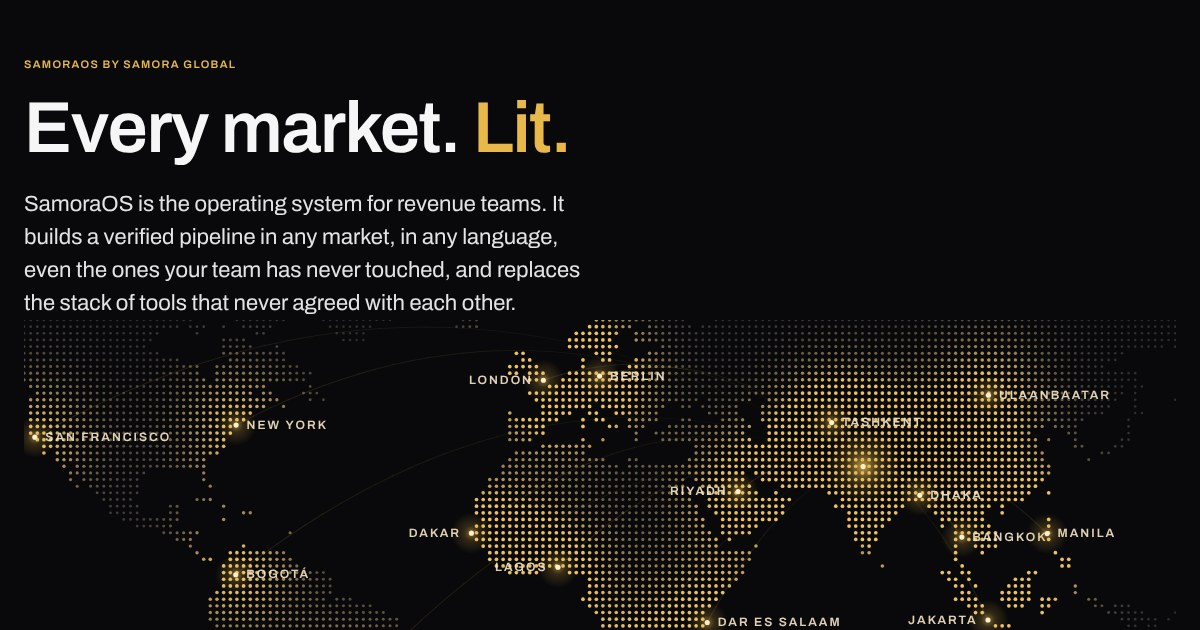
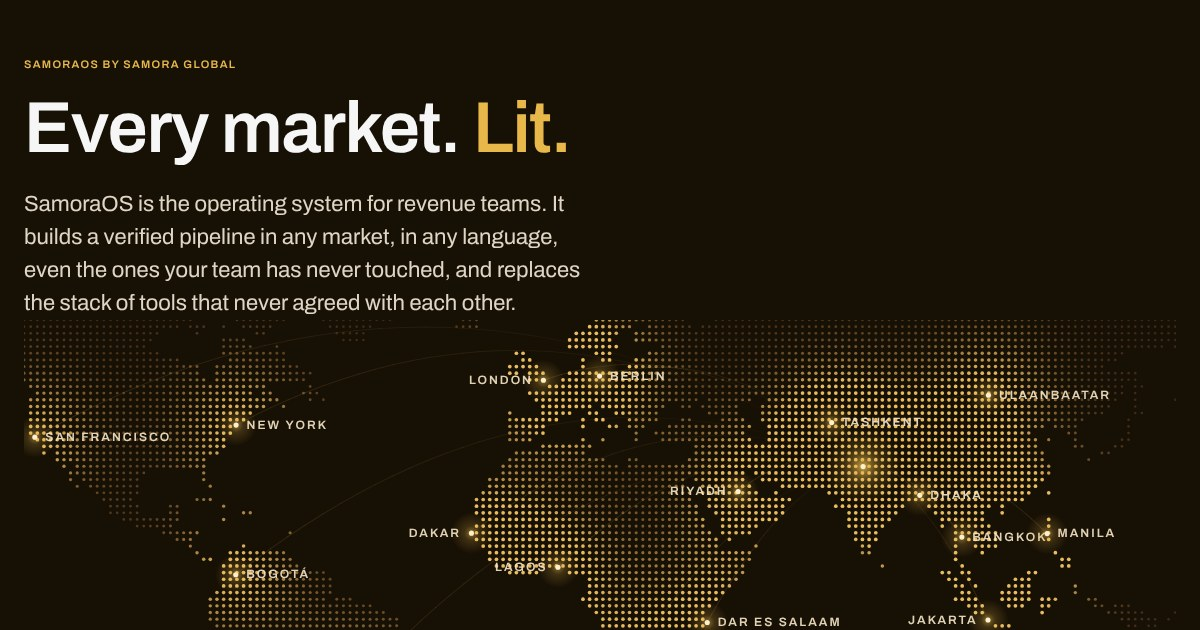
Add files via upload

Changed region(s): [[0.0308, 0.4222, 0.4933, 0.5127], [0.0308, 0.3619, 0.4625, 0.3921], [0.0308, 0.3016, 0.4317, 0.3317]]

diff --git a/samora-github-ready/index.html b/samora-github-ready/index.html
@@ -123,7 +123,7 @@
       <h2>Wired into everything your team already uses.</h2>
       <p class="lede">Mail, calendar, LinkedIn, CRM, data providers, notetakers and sequencers feed one verified layer. Five modules work from it, so every seat sees the same truth.</p>
     </div>
-    <div class="orbit rv"><svg viewBox="0 0 1100 640" role="img" aria-label="SamoraOS at the centre, its five modules around it, and integrations feeding signals in from both sides"><defs><radialGradient id="cg"><stop offset="0" stop-color="#E8B84B" stop-opacity=".35"/><stop offset="1" stop-color="#E8B84B" stop-opacity="0"/></radialGradient></defs><ellipse cx="550" cy="320" rx="240" ry="205" fill="none" stroke="#2A2A30" stroke-dasharray="3 6"/><line class="feed" x1="79" y1="40" x2="550" y2="320" stroke="#26262C" stroke-width="1"/><line class="feed" x1="161" y1="110" x2="550" y2="320" stroke="#26262C" stroke-width="1"/><line class="feed" x1="95" y1="180" x2="550" y2="320" stroke="#26262C" stroke-width="1"/><line class="feed" x1="104" y1="250" x2="550" y2="320" stroke="#26262C" stroke-width="1"/><line class="feed" x1="104" y1="320" x2="550" y2="320" stroke="#26262C" stroke-width="1"/><line class="feed" x1="120" y1="390" x2="550" y2="320" stroke="#26262C" stroke-width="1"/><line class="feed" x1="95" y1="460" x2="550" y2="320" stroke="#26262C" stroke-width="1"/><line class="feed" x1="104" y1="530" x2="550" y2="320" stroke="#26262C" stroke-width="1"/><line class="feed" x1="112" y1="600" x2="550" y2="320" stroke="#26262C" stroke-width="1"/><line class="feed" x1="996" y1="40" x2="550" y2="320" stroke="#26262C" stroke-width="1"/><line class="feed" x1="1013" y1="110" x2="550" y2="320" stroke="#26262C" stroke-width="1"/><line class="feed" x1="1021" y1="180" x2="550" y2="320" stroke="#26262C" stroke-width="1"/><line class="feed" x1="988" y1="250" x2="550" y2="320" stroke="#26262C" stroke-width="1"/><line class="feed" x1="1005" y1="320" x2="550" y2="320" stroke="#26262C" stroke-width="1"/><line class="feed" x1="1029" y1="390" x2="550" y2="320" stroke="#26262C" stroke-width="1"/><line class="feed" x1="996" y1="460" x2="550" y2="320" stroke="#26262C" stroke-width="1"/><line class="feed" x1="980" y1="530" x2="550" y2="320" stroke="#26262C" stroke-width="1"/><line class="feed" x1="964" y1="600" x2="550" y2="320" stroke="#26262C" stroke-width="1"/><g id="pulses"></g><g class="chip"><rect x="16" y="23" width="63" height="34" rx="4"/><text x="48" y="45" text-anchor="middle">Gmail</text></g><g class="chip"><rect x="16" y="93" width="145" height="34" rx="4"/><text x="88" y="115" text-anchor="middle">Google Calendar</text></g><g class="chip"><rect x="16" y="163" width="79" height="34" rx="4"/><text x="56" y="185" text-anchor="middle">Outlook</text></g><g class="chip"><rect x="16" y="233" width="88" height="34" rx="4"/><text x="60" y="255" text-anchor="middle">LinkedIn</text></g><g class="chip"><rect x="16" y="303" width="88" height="34" rx="4"/><text x="60" y="325" text-anchor="middle">WhatsApp</text></g><g class="chip"><rect x="16" y="373" width="104" height="34" rx="4"/><text x="68" y="395" text-anchor="middle">Salesforce</text></g><g class="chip"><rect x="16" y="443" width="79" height="34" rx="4"/><text x="56" y="465" text-anchor="middle">HubSpot</text></g><g class="chip"><rect x="16" y="513" width="88" height="34" rx="4"/><text x="60" y="535" text-anchor="middle">Zoho CRM</text></g><g class="chip"><rect x="16" y="583" width="96" height="34" rx="4"/><text x="64" y="605" text-anchor="middle">Pipedrive</text></g><g class="chip"><rect x="996" y="23" width="88" height="34" rx="4"/><text x="1040" y="45" text-anchor="middle">ZoomInfo</text></g><g class="chip"><rect x="1013" y="93" width="71" height="34" rx="4"/><text x="1048" y="115" text-anchor="middle">Apollo</text></g><g class="chip"><rect x="1021" y="163" width="63" height="34" rx="4"/><text x="1052" y="185" text-anchor="middle">Lusha</text></g><g class="chip"><rect x="988" y="233" width="96" height="34" rx="4"/><text x="1036" y="255" text-anchor="middle">Fireflies</text></g><g class="chip"><rect x="1005" y="303" width="79" height="34" rx="4"/><text x="1044" y="325" text-anchor="middle">Read.ai</text></g><g class="chip"><rect x="1029" y="373" width="55" height="34" rx="4"/><text x="1057" y="395" text-anchor="middle">Zoom</text></g><g class="chip"><rect x="996" y="443" width="88" height="34" rx="4"/><text x="1040" y="465" text-anchor="middle">Calendly</text></g><g class="chip"><rect x="980" y="513" width="104" height="34" rx="4"/><text x="1032" y="535" text-anchor="middle">ZeroBounce</text></g><g class="chip"><rect x="964" y="583" width="120" height="34" rx="4"/><text x="1024" y="605" text-anchor="middle">Claude (MCP)</text></g><circle cx="550" cy="320" r="150" fill="url(#cg)"/><a class="mod" href="/discovery"><rect x="450" y="85" width="200" height="60" rx="4"/><text class="t" x="466" y="111">Discovery</text><text class="d" x="466" y="131">Find the companies that fit</text></a><a class="mod" href="/sampaigns"><rect x="678" y="227" width="200" height="60" rx="4"/><text class="t" x="694" y="253">SAMpaigns</text><text class="d" x="694" y="273">Reach and write, any language</text></a><a class="mod" href="/deals"><rect x="591" y="456" width="200" height="60" rx="4"/><text class="t" x="607" y="482">Deals</text><text class="d" x="607" y="502">Moved by evidence</text></a><a class="mod" href="/leaders"><rect x="309" y="456" width="200" height="60" rx="4"/><text class="t" x="325" y="482">Leaders</text><text class="d" x="325" y="502">The verified number</text></a><a class="mod" href="/today"><rect x="222" y="227" width="200" height="60" rx="4"/><text class="t" x="238" y="253">Today</text><text class="d" x="238" y="273">The day, sorted</text></a><circle cx="550" cy="320" r="74" fill="#0D0D10" stroke="#E8B84B" stroke-width="1.5"/><image href="/brand/assets/marks/samora-badge-transparent.svg" x="518" y="274" width="64" height="64"/><text x="550" y="360" text-anchor="middle" fill="#F4F4F5" font-family="Archivo" font-weight="600" font-size="14" letter-spacing="2">SAMORAOS</text></svg></div><div class="orbit-list"><a class="card" href="/discovery" style="text-decoration:none"><div class="k">Discovery</div><h3>Find the companies that fit</h3></a><a class="card" href="/sampaigns" style="text-decoration:none"><div class="k">SAMpaigns</div><h3>Reach and write, any language</h3></a><a class="card" href="/deals" style="text-decoration:none"><div class="k">Deals</div><h3>Moved by evidence</h3></a><a class="card" href="/leaders" style="text-decoration:none"><div class="k">Leaders</div><h3>The verified number</h3></a><a class="card" href="/today" style="text-decoration:none"><div class="k">Today</div><h3>The day, sorted</h3></a></div>
+    <div class="orbit rv"><svg viewBox="0 0 1100 640" role="img" aria-label="SamoraOS at the centre, its five modules around it, and integrations feeding signals in from both sides"><defs><radialGradient id="cg"><stop offset="0" stop-color="#E8B84B" stop-opacity=".35"/><stop offset="1" stop-color="#E8B84B" stop-opacity="0"/></radialGradient></defs><ellipse cx="550" cy="320" rx="240" ry="205" fill="none" stroke="#43352A" stroke-dasharray="3 6"/><line class="feed" x1="79" y1="40" x2="550" y2="320" stroke="#3A2E1E" stroke-width="1"/><line class="feed" x1="161" y1="110" x2="550" y2="320" stroke="#3A2E1E" stroke-width="1"/><line class="feed" x1="95" y1="180" x2="550" y2="320" stroke="#3A2E1E" stroke-width="1"/><line class="feed" x1="104" y1="250" x2="550" y2="320" stroke="#3A2E1E" stroke-width="1"/><line class="feed" x1="104" y1="320" x2="550" y2="320" stroke="#3A2E1E" stroke-width="1"/><line class="feed" x1="120" y1="390" x2="550" y2="320" stroke="#3A2E1E" stroke-width="1"/><line class="feed" x1="95" y1="460" x2="550" y2="320" stroke="#3A2E1E" stroke-width="1"/><line class="feed" x1="104" y1="530" x2="550" y2="320" stroke="#3A2E1E" stroke-width="1"/><line class="feed" x1="112" y1="600" x2="550" y2="320" stroke="#3A2E1E" stroke-width="1"/><line class="feed" x1="996" y1="40" x2="550" y2="320" stroke="#3A2E1E" stroke-width="1"/><line class="feed" x1="1013" y1="110" x2="550" y2="320" stroke="#3A2E1E" stroke-width="1"/><line class="feed" x1="1021" y1="180" x2="550" y2="320" stroke="#3A2E1E" stroke-width="1"/><line class="feed" x1="988" y1="250" x2="550" y2="320" stroke="#3A2E1E" stroke-width="1"/><line class="feed" x1="1005" y1="320" x2="550" y2="320" stroke="#3A2E1E" stroke-width="1"/><line class="feed" x1="1029" y1="390" x2="550" y2="320" stroke="#3A2E1E" stroke-width="1"/><line class="feed" x1="996" y1="460" x2="550" y2="320" stroke="#3A2E1E" stroke-width="1"/><line class="feed" x1="980" y1="530" x2="550" y2="320" stroke="#3A2E1E" stroke-width="1"/><line class="feed" x1="964" y1="600" x2="550" y2="320" stroke="#3A2E1E" stroke-width="1"/><g id="pulses"></g><g class="chip"><rect x="16" y="23" width="63" height="34" rx="4"/><text x="48" y="45" text-anchor="middle">Gmail</text></g><g class="chip"><rect x="16" y="93" width="145" height="34" rx="4"/><text x="88" y="115" text-anchor="middle">Google Calendar</text></g><g class="chip"><rect x="16" y="163" width="79" height="34" rx="4"/><text x="56" y="185" text-anchor="middle">Outlook</text></g><g class="chip"><rect x="16" y="233" width="88" height="34" rx="4"/><text x="60" y="255" text-anchor="middle">LinkedIn</text></g><g class="chip"><rect x="16" y="303" width="88" height="34" rx="4"/><text x="60" y="325" text-anchor="middle">WhatsApp</text></g><g class="chip"><rect x="16" y="373" width="104" height="34" rx="4"/><text x="68" y="395" text-anchor="middle">Salesforce</text></g><g class="chip"><rect x="16" y="443" width="79" height="34" rx="4"/><text x="56" y="465" text-anchor="middle">HubSpot</text></g><g class="chip"><rect x="16" y="513" width="88" height="34" rx="4"/><text x="60" y="535" text-anchor="middle">Zoho CRM</text></g><g class="chip"><rect x="16" y="583" width="96" height="34" rx="4"/><text x="64" y="605" text-anchor="middle">Pipedrive</text></g><g class="chip"><rect x="996" y="23" width="88" height="34" rx="4"/><text x="1040" y="45" text-anchor="middle">ZoomInfo</text></g><g class="chip"><rect x="1013" y="93" width="71" height="34" rx="4"/><text x="1048" y="115" text-anchor="middle">Apollo</text></g><g class="chip"><rect x="1021" y="163" width="63" height="34" rx="4"/><text x="1052" y="185" text-anchor="middle">Lusha</text></g><g class="chip"><rect x="988" y="233" width="96" height="34" rx="4"/><text x="1036" y="255" text-anchor="middle">Fireflies</text></g><g class="chip"><rect x="1005" y="303" width="79" height="34" rx="4"/><text x="1044" y="325" text-anchor="middle">Read.ai</text></g><g class="chip"><rect x="1029" y="373" width="55" height="34" rx="4"/><text x="1057" y="395" text-anchor="middle">Zoom</text></g><g class="chip"><rect x="996" y="443" width="88" height="34" rx="4"/><text x="1040" y="465" text-anchor="middle">Calendly</text></g><g class="chip"><rect x="980" y="513" width="104" height="34" rx="4"/><text x="1032" y="535" text-anchor="middle">ZeroBounce</text></g><g class="chip"><rect x="964" y="583" width="120" height="34" rx="4"/><text x="1024" y="605" text-anchor="middle">Claude (MCP)</text></g><circle cx="550" cy="320" r="150" fill="url(#cg)"/><a class="mod" href="/discovery"><rect x="450" y="85" width="200" height="60" rx="4"/><text class="t" x="466" y="111">Discovery</text><text class="d" x="466" y="131">Find the companies that fit</text></a><a class="mod" href="/sampaigns"><rect x="678" y="227" width="200" height="60" rx="4"/><text class="t" x="694" y="253">SAMpaigns</text><text class="d" x="694" y="273">Reach and write, any language</text></a><a class="mod" href="/deals"><rect x="591" y="456" width="200" height="60" rx="4"/><text class="t" x="607" y="482">Deals</text><text class="d" x="607" y="502">Moved by evidence</text></a><a class="mod" href="/leaders"><rect x="309" y="456" width="200" height="60" rx="4"/><text class="t" x="325" y="482">Leaders</text><text class="d" x="325" y="502">The verified number</text></a><a class="mod" href="/today"><rect x="222" y="227" width="200" height="60" rx="4"/><text class="t" x="238" y="253">Today</text><text class="d" x="238" y="273">The day, sorted</text></a><circle cx="550" cy="320" r="74" fill="#1C130A" stroke="#E8B84B" stroke-width="1.5"/><image href="/brand/assets/marks/samora-badge-transparent.svg" x="518" y="274" width="64" height="64"/><text x="550" y="360" text-anchor="middle" fill="#F6F0E7" font-family="Archivo" font-weight="600" font-size="14" letter-spacing="2">SAMORAOS</text></svg></div><div class="orbit-list"><a class="card" href="/discovery" style="text-decoration:none"><div class="k">Discovery</div><h3>Find the companies that fit</h3></a><a class="card" href="/sampaigns" style="text-decoration:none"><div class="k">SAMpaigns</div><h3>Reach and write, any language</h3></a><a class="card" href="/deals" style="text-decoration:none"><div class="k">Deals</div><h3>Moved by evidence</h3></a><a class="card" href="/leaders" style="text-decoration:none"><div class="k">Leaders</div><h3>The verified number</h3></a><a class="card" href="/today" style="text-decoration:none"><div class="k">Today</div><h3>The day, sorted</h3></a></div>
     <div class="btns" style="justify-content:center"><a class="btn btn--line arrow" href="/integrations">All 31 integrations</a></div>
   </div>
 </section>
@@ -186,7 +186,7 @@
       <div class="btns"><a class="btn btn--line arrow" href="/deals">How deals are verified</a></div>
     </div>
     <div class="leak rv">
-  <div class="leak-row"><div class="top"><span>Stated in the CRM</span><b>$1.20M</b></div><div class="track"><div class="fill" style="--w:100%;background:#3A3A42;color:#E4E4E7">What the deck says</div></div></div>
+  <div class="leak-row"><div class="top"><span>Stated in the CRM</span><b>$1.20M</b></div><div class="track"><div class="fill" style="--w:100%;background:#504635;color:#F0E8DA">What the deck says</div></div></div>
   <div class="leak-row"><div class="top"><span>Partly supported</span><b>$670K</b></div><div class="track"><div class="fill" style="--w:56%;background:#DEB771">Some signal, below the bar</div></div></div>
   <div class="leak-row"><div class="top"><span>Verified by activity</span><b>$530K</b></div><div class="track"><div class="fill" style="--w:44%;background:#A8B07A">Safe to commit</div></div></div>
   <div class="leak-gap"><div class="n">$670K</div><p>carried in the forecast with no evidence behind it. An illustrative pipeline, and the gap that becomes a missed quarter.</p></div>

diff --git a/samora-github-ready/integrations.html b/samora-github-ready/integrations.html
@@ -74,7 +74,7 @@
 <section class="sec dark warm">
   <div class="wrap">
     <div class="sec-h center rv"><div class="eyebrow">How it fits together</div><h2>Signals in. Five modules out.</h2></div>
-    <div class="orbit rv"><svg viewBox="0 0 1100 640" role="img" aria-label="SamoraOS at the centre, its five modules around it, and integrations feeding signals in from both sides"><defs><radialGradient id="cg"><stop offset="0" stop-color="#E8B84B" stop-opacity=".35"/><stop offset="1" stop-color="#E8B84B" stop-opacity="0"/></radialGradient></defs><ellipse cx="550" cy="320" rx="240" ry="205" fill="none" stroke="#2A2A30" stroke-dasharray="3 6"/><line class="feed" x1="79" y1="40" x2="550" y2="320" stroke="#26262C" stroke-width="1"/><line class="feed" x1="161" y1="110" x2="550" y2="320" stroke="#26262C" stroke-width="1"/><line class="feed" x1="95" y1="180" x2="550" y2="320" stroke="#26262C" stroke-width="1"/><line class="feed" x1="104" y1="250" x2="550" y2="320" stroke="#26262C" stroke-width="1"/><line class="feed" x1="104" y1="320" x2="550" y2="320" stroke="#26262C" stroke-width="1"/><line class="feed" x1="120" y1="390" x2="550" y2="320" stroke="#26262C" stroke-width="1"/><line class="feed" x1="95" y1="460" x2="550" y2="320" stroke="#26262C" stroke-width="1"/><line class="feed" x1="104" y1="530" x2="550" y2="320" stroke="#26262C" stroke-width="1"/><line class="feed" x1="112" y1="600" x2="550" y2="320" stroke="#26262C" stroke-width="1"/><line class="feed" x1="996" y1="40" x2="550" y2="320" stroke="#26262C" stroke-width="1"/><line class="feed" x1="1013" y1="110" x2="550" y2="320" stroke="#26262C" stroke-width="1"/><line class="feed" x1="1021" y1="180" x2="550" y2="320" stroke="#26262C" stroke-width="1"/><line class="feed" x1="988" y1="250" x2="550" y2="320" stroke="#26262C" stroke-width="1"/><line class="feed" x1="1005" y1="320" x2="550" y2="320" stroke="#26262C" stroke-width="1"/><line class="feed" x1="1029" y1="390" x2="550" y2="320" stroke="#26262C" stroke-width="1"/><line class="feed" x1="996" y1="460" x2="550" y2="320" stroke="#26262C" stroke-width="1"/><line class="feed" x1="980" y1="530" x2="550" y2="320" stroke="#26262C" stroke-width="1"/><line class="feed" x1="964" y1="600" x2="550" y2="320" stroke="#26262C" stroke-width="1"/><g id="pulses"></g><g class="chip"><rect x="16" y="23" width="63" height="34" rx="4"/><text x="48" y="45" text-anchor="middle">Gmail</text></g><g class="chip"><rect x="16" y="93" width="145" height="34" rx="4"/><text x="88" y="115" text-anchor="middle">Google Calendar</text></g><g class="chip"><rect x="16" y="163" width="79" height="34" rx="4"/><text x="56" y="185" text-anchor="middle">Outlook</text></g><g class="chip"><rect x="16" y="233" width="88" height="34" rx="4"/><text x="60" y="255" text-anchor="middle">LinkedIn</text></g><g class="chip"><rect x="16" y="303" width="88" height="34" rx="4"/><text x="60" y="325" text-anchor="middle">WhatsApp</text></g><g class="chip"><rect x="16" y="373" width="104" height="34" rx="4"/><text x="68" y="395" text-anchor="middle">Salesforce</text></g><g class="chip"><rect x="16" y="443" width="79" height="34" rx="4"/><text x="56" y="465" text-anchor="middle">HubSpot</text></g><g class="chip"><rect x="16" y="513" width="88" height="34" rx="4"/><text x="60" y="535" text-anchor="middle">Zoho CRM</text></g><g class="chip"><rect x="16" y="583" width="96" height="34" rx="4"/><text x="64" y="605" text-anchor="middle">Pipedrive</text></g><g class="chip"><rect x="996" y="23" width="88" height="34" rx="4"/><text x="1040" y="45" text-anchor="middle">ZoomInfo</text></g><g class="chip"><rect x="1013" y="93" width="71" height="34" rx="4"/><text x="1048" y="115" text-anchor="middle">Apollo</text></g><g class="chip"><rect x="1021" y="163" width="63" height="34" rx="4"/><text x="1052" y="185" text-anchor="middle">Lusha</text></g><g class="chip"><rect x="988" y="233" width="96" height="34" rx="4"/><text x="1036" y="255" text-anchor="middle">Fireflies</text></g><g class="chip"><rect x="1005" y="303" width="79" height="34" rx="4"/><text x="1044" y="325" text-anchor="middle">Read.ai</text></g><g class="chip"><rect x="1029" y="373" width="55" height="34" rx="4"/><text x="1057" y="395" text-anchor="middle">Zoom</text></g><g class="chip"><rect x="996" y="443" width="88" height="34" rx="4"/><text x="1040" y="465" text-anchor="middle">Calendly</text></g><g class="chip"><rect x="980" y="513" width="104" height="34" rx="4"/><text x="1032" y="535" text-anchor="middle">ZeroBounce</text></g><g class="chip"><rect x="964" y="583" width="120" height="34" rx="4"/><text x="1024" y="605" text-anchor="middle">Claude (MCP)</text></g><circle cx="550" cy="320" r="150" fill="url(#cg)"/><a class="mod" href="/discovery"><rect x="450" y="85" width="200" height="60" rx="4"/><text class="t" x="466" y="111">Discovery</text><text class="d" x="466" y="131">Find the companies that fit</text></a><a class="mod" href="/sampaigns"><rect x="678" y="227" width="200" height="60" rx="4"/><text class="t" x="694" y="253">SAMpaigns</text><text class="d" x="694" y="273">Reach and write, any language</text></a><a class="mod" href="/deals"><rect x="591" y="456" width="200" height="60" rx="4"/><text class="t" x="607" y="482">Deals</text><text class="d" x="607" y="502">Moved by evidence</text></a><a class="mod" href="/leaders"><rect x="309" y="456" width="200" height="60" rx="4"/><text class="t" x="325" y="482">Leaders</text><text class="d" x="325" y="502">The verified number</text></a><a class="mod" href="/today"><rect x="222" y="227" width="200" height="60" rx="4"/><text class="t" x="238" y="253">Today</text><text class="d" x="238" y="273">The day, sorted</text></a><circle cx="550" cy="320" r="74" fill="#0D0D10" stroke="#E8B84B" stroke-width="1.5"/><image href="/brand/assets/marks/samora-badge-transparent.svg" x="518" y="274" width="64" height="64"/><text x="550" y="360" text-anchor="middle" fill="#F4F4F5" font-family="Archivo" font-weight="600" font-size="14" letter-spacing="2">SAMORAOS</text></svg></div><div class="orbit-list"><a class="card" href="/discovery" style="text-decoration:none"><div class="k">Discovery</div><h3>Find the companies that fit</h3></a><a class="card" href="/sampaigns" style="text-decoration:none"><div class="k">SAMpaigns</div><h3>Reach and write, any language</h3></a><a class="card" href="/deals" style="text-decoration:none"><div class="k">Deals</div><h3>Moved by evidence</h3></a><a class="card" href="/leaders" style="text-decoration:none"><div class="k">Leaders</div><h3>The verified number</h3></a><a class="card" href="/today" style="text-decoration:none"><div class="k">Today</div><h3>The day, sorted</h3></a></div>
+    <div class="orbit rv"><svg viewBox="0 0 1100 640" role="img" aria-label="SamoraOS at the centre, its five modules around it, and integrations feeding signals in from both sides"><defs><radialGradient id="cg"><stop offset="0" stop-color="#E8B84B" stop-opacity=".35"/><stop offset="1" stop-color="#E8B84B" stop-opacity="0"/></radialGradient></defs><ellipse cx="550" cy="320" rx="240" ry="205" fill="none" stroke="#43352A" stroke-dasharray="3 6"/><line class="feed" x1="79" y1="40" x2="550" y2="320" stroke="#3A2E1E" stroke-width="1"/><line class="feed" x1="161" y1="110" x2="550" y2="320" stroke="#3A2E1E" stroke-width="1"/><line class="feed" x1="95" y1="180" x2="550" y2="320" stroke="#3A2E1E" stroke-width="1"/><line class="feed" x1="104" y1="250" x2="550" y2="320" stroke="#3A2E1E" stroke-width="1"/><line class="feed" x1="104" y1="320" x2="550" y2="320" stroke="#3A2E1E" stroke-width="1"/><line class="feed" x1="120" y1="390" x2="550" y2="320" stroke="#3A2E1E" stroke-width="1"/><line class="feed" x1="95" y1="460" x2="550" y2="320" stroke="#3A2E1E" stroke-width="1"/><line class="feed" x1="104" y1="530" x2="550" y2="320" stroke="#3A2E1E" stroke-width="1"/><line class="feed" x1="112" y1="600" x2="550" y2="320" stroke="#3A2E1E" stroke-width="1"/><line class="feed" x1="996" y1="40" x2="550" y2="320" stroke="#3A2E1E" stroke-width="1"/><line class="feed" x1="1013" y1="110" x2="550" y2="320" stroke="#3A2E1E" stroke-width="1"/><line class="feed" x1="1021" y1="180" x2="550" y2="320" stroke="#3A2E1E" stroke-width="1"/><line class="feed" x1="988" y1="250" x2="550" y2="320" stroke="#3A2E1E" stroke-width="1"/><line class="feed" x1="1005" y1="320" x2="550" y2="320" stroke="#3A2E1E" stroke-width="1"/><line class="feed" x1="1029" y1="390" x2="550" y2="320" stroke="#3A2E1E" stroke-width="1"/><line class="feed" x1="996" y1="460" x2="550" y2="320" stroke="#3A2E1E" stroke-width="1"/><line class="feed" x1="980" y1="530" x2="550" y2="320" stroke="#3A2E1E" stroke-width="1"/><line class="feed" x1="964" y1="600" x2="550" y2="320" stroke="#3A2E1E" stroke-width="1"/><g id="pulses"></g><g class="chip"><rect x="16" y="23" width="63" height="34" rx="4"/><text x="48" y="45" text-anchor="middle">Gmail</text></g><g class="chip"><rect x="16" y="93" width="145" height="34" rx="4"/><text x="88" y="115" text-anchor="middle">Google Calendar</text></g><g class="chip"><rect x="16" y="163" width="79" height="34" rx="4"/><text x="56" y="185" text-anchor="middle">Outlook</text></g><g class="chip"><rect x="16" y="233" width="88" height="34" rx="4"/><text x="60" y="255" text-anchor="middle">LinkedIn</text></g><g class="chip"><rect x="16" y="303" width="88" height="34" rx="4"/><text x="60" y="325" text-anchor="middle">WhatsApp</text></g><g class="chip"><rect x="16" y="373" width="104" height="34" rx="4"/><text x="68" y="395" text-anchor="middle">Salesforce</text></g><g class="chip"><rect x="16" y="443" width="79" height="34" rx="4"/><text x="56" y="465" text-anchor="middle">HubSpot</text></g><g class="chip"><rect x="16" y="513" width="88" height="34" rx="4"/><text x="60" y="535" text-anchor="middle">Zoho CRM</text></g><g class="chip"><rect x="16" y="583" width="96" height="34" rx="4"/><text x="64" y="605" text-anchor="middle">Pipedrive</text></g><g class="chip"><rect x="996" y="23" width="88" height="34" rx="4"/><text x="1040" y="45" text-anchor="middle">ZoomInfo</text></g><g class="chip"><rect x="1013" y="93" width="71" height="34" rx="4"/><text x="1048" y="115" text-anchor="middle">Apollo</text></g><g class="chip"><rect x="1021" y="163" width="63" height="34" rx="4"/><text x="1052" y="185" text-anchor="middle">Lusha</text></g><g class="chip"><rect x="988" y="233" width="96" height="34" rx="4"/><text x="1036" y="255" text-anchor="middle">Fireflies</text></g><g class="chip"><rect x="1005" y="303" width="79" height="34" rx="4"/><text x="1044" y="325" text-anchor="middle">Read.ai</text></g><g class="chip"><rect x="1029" y="373" width="55" height="34" rx="4"/><text x="1057" y="395" text-anchor="middle">Zoom</text></g><g class="chip"><rect x="996" y="443" width="88" height="34" rx="4"/><text x="1040" y="465" text-anchor="middle">Calendly</text></g><g class="chip"><rect x="980" y="513" width="104" height="34" rx="4"/><text x="1032" y="535" text-anchor="middle">ZeroBounce</text></g><g class="chip"><rect x="964" y="583" width="120" height="34" rx="4"/><text x="1024" y="605" text-anchor="middle">Claude (MCP)</text></g><circle cx="550" cy="320" r="150" fill="url(#cg)"/><a class="mod" href="/discovery"><rect x="450" y="85" width="200" height="60" rx="4"/><text class="t" x="466" y="111">Discovery</text><text class="d" x="466" y="131">Find the companies that fit</text></a><a class="mod" href="/sampaigns"><rect x="678" y="227" width="200" height="60" rx="4"/><text class="t" x="694" y="253">SAMpaigns</text><text class="d" x="694" y="273">Reach and write, any language</text></a><a class="mod" href="/deals"><rect x="591" y="456" width="200" height="60" rx="4"/><text class="t" x="607" y="482">Deals</text><text class="d" x="607" y="502">Moved by evidence</text></a><a class="mod" href="/leaders"><rect x="309" y="456" width="200" height="60" rx="4"/><text class="t" x="325" y="482">Leaders</text><text class="d" x="325" y="502">The verified number</text></a><a class="mod" href="/today"><rect x="222" y="227" width="200" height="60" rx="4"/><text class="t" x="238" y="253">Today</text><text class="d" x="238" y="273">The day, sorted</text></a><circle cx="550" cy="320" r="74" fill="#1C130A" stroke="#E8B84B" stroke-width="1.5"/><image href="/brand/assets/marks/samora-badge-transparent.svg" x="518" y="274" width="64" height="64"/><text x="550" y="360" text-anchor="middle" fill="#F6F0E7" font-family="Archivo" font-weight="600" font-size="14" letter-spacing="2">SAMORAOS</text></svg></div><div class="orbit-list"><a class="card" href="/discovery" style="text-decoration:none"><div class="k">Discovery</div><h3>Find the companies that fit</h3></a><a class="card" href="/sampaigns" style="text-decoration:none"><div class="k">SAMpaigns</div><h3>Reach and write, any language</h3></a><a class="card" href="/deals" style="text-decoration:none"><div class="k">Deals</div><h3>Moved by evidence</h3></a><a class="card" href="/leaders" style="text-decoration:none"><div class="k">Leaders</div><h3>The verified number</h3></a><a class="card" href="/today" style="text-decoration:none"><div class="k">Today</div><h3>The day, sorted</h3></a></div>
   </div>
 </section>
 <section class="sec sec--surface">

diff --git a/samora-github-ready/css/site.css b/samora-github-ready/css/site.css
@@ -12,8 +12,8 @@
   --font:'Archivo',ui-sans-serif,system-ui,sans-serif;
   /* Neutral ramp: cool, near-black to white. The gold is the only colour with a temperature. */
   --sand-00:#FFFFFF;--sand-05:#F6F6F7;--sand-10:#EFEFF1;--sand-20:#E4E4E7;--sand-30:#D4D4D8;--sand-40:#A1A1AA;
-  --sand-50:#8B8B94;--sand-60:#62626B;--sand-70:#45454D;--sand-80:#26262B;--sand-90:#141417;--sand-95:#09090B;
-  --gold:#C8961E;--gold-bright:#E8B84B;--gold-text:#8A6508;--gold-solid:#0B0B0D;--ink:#09090B;
+  --sand-50:#8B8B94;--sand-60:#62626B;--sand-70:#45454D;--sand-80:#382F1F;--sand-90:#261E10;--sand-95:#171005;
+  --gold:#B8860B;--gold-bright:#E8B84B;--gold-text:#886100;--gold-solid:#926B14;--ink:#2B1B14;
   --verified:#4E7A3A;--partial:#8A6508;--risk:#B4472A;--info:#3E6E8A;
   --r-sm:2px;--r-md:4px;
   --dur-fast:120ms;--dur-slow:200ms;--ease:cubic-bezier(0.2,0,0,1);
@@ -23,7 +23,7 @@
 html{-webkit-text-size-adjust:100%;scroll-behavior:smooth}
 body{margin:0;background:var(--sand-00);color:var(--sand-95);font-family:var(--font);font-size:16px;line-height:1.55;
   font-variant-numeric:tabular-nums;-webkit-font-smoothing:antialiased;overflow-x:hidden}
-img,svg,canvas{max-width:100%;display:block}
+img,svg,canvas{max-width:100%;height:auto;display:block}
 a{color:inherit}
 h1,h2,h3,h4{margin:0;font-weight:600;line-height:1.15;letter-spacing:-0.01em}
 h1{font-size:clamp(40px,6.2vw,72px);letter-spacing:-0.02em}
@@ -54,14 +54,14 @@ p{margin:0}
 .dark .lede,.dark .muted{color:var(--sand-30)}
 .dark .eyebrow{color:var(--gold-bright)}
 .dark .gold{color:var(--gold-bright)}
-.warm{background:radial-gradient(90% 70% at 50% 100%,rgba(200,150,30,.16) 0%,rgba(200,150,30,.05) 45%,rgba(9,9,11,0) 75%),radial-gradient(60% 50% at 85% 0%,rgba(232,184,75,.07),rgba(9,9,11,0) 70%),var(--sand-95)}
+.warm{background:radial-gradient(120% 90% at 50% 100%,rgba(140,62,20,.55) 0%,rgba(80,28,10,.35) 40%,rgba(23,16,5,0) 75%),var(--sand-95)}
 
 /* buttons */
 .btn{display:inline-flex;align-items:center;justify-content:center;gap:8px;height:44px;padding:0 20px;border-radius:var(--r-sm);
   font:500 15px/1 var(--font);text-decoration:none;cursor:pointer;border:1px solid transparent;
   transition:background-color var(--dur-fast) var(--ease),border-color var(--dur-fast) var(--ease),color var(--dur-fast) var(--ease)}
 .btn--gold{background:var(--gold-solid);color:var(--sand-00)}
-.btn--gold:hover{background:#26262B}
+.btn--gold:hover{background:#7E5C10}
 .btn--line{border-color:var(--sand-40);color:var(--sand-95);background:transparent}
 .btn--line:hover{border-color:var(--sand-95)}
 .dark .btn--gold{background:var(--gold-bright);color:var(--sand-95)}
@@ -131,7 +131,7 @@ p{margin:0}
 .card h3{margin-bottom:8px}
 .card p{color:var(--sand-70);font-size:15px}
 .card .k{font-size:12px;font-weight:600;color:var(--gold-text);margin-bottom:12px}
-.dark .card{background:#111114;border-color:var(--sand-80)}
+.dark .card{background:#211710;border-color:#3A2E1E}
 .dark .card p{color:var(--sand-30)}
 .dark .card .k{color:var(--gold-bright)}
 
@@ -282,17 +282,17 @@ p{margin:0}
 
 /* ===== v2 additions: integrations, research, consolidation, orbit, funnel ===== */
 .dark{background:var(--sand-95)}
-.sec.dark{border-top:1px solid #18181C}
+.sec.dark{border-top:1px solid #2A2014}
 .btn--gold{color:#FFFFFF}
-.dark .btn--gold{color:#09090B}
+.dark .btn--gold{color:#171005}
 h1 .gold,.hero h1 .gold{color:var(--gold-bright)}
 
 /* marquee of integrations */
-.strip{background:#0D0D10;border-top:1px solid #1C1C21;border-bottom:1px solid #1C1C21;padding:22px 0;overflow:hidden}
+.strip{background:#1C130A;border-top:1px solid #2E2418;border-bottom:1px solid #2E2418;padding:22px 0;overflow:hidden}
 .strip-lbl{text-align:center;font-size:11px;font-weight:600;letter-spacing:.14em;text-transform:uppercase;color:var(--sand-50);margin-bottom:14px}
 .strip-lbl a{color:var(--gold-bright);text-decoration:none;margin-left:8px}
 .strip-track{display:flex;gap:44px;width:max-content;animation:slide 60s linear infinite;will-change:transform}
-.strip-track span{font-size:16px;font-weight:500;color:#C9C9CF;white-space:nowrap;display:flex;align-items:center;gap:44px}
+.strip-track span{font-size:16px;font-weight:500;color:#D9CDB8;white-space:nowrap;display:flex;align-items:center;gap:44px}
 .strip-track span::after{content:'';width:4px;height:4px;border-radius:999px;background:var(--gold)}
 @keyframes slide{from{transform:translateX(0)}to{transform:translateX(-50%)}}
 @media(prefers-reduced-motion:reduce){.strip-track{animation:none;flex-wrap:wrap;justify-content:center;width:auto;gap:12px 28px;padding:0 16px}.strip-track span::after{display:none}}
@@ -319,13 +319,13 @@ h1 .gold,.hero h1 .gold{color:var(--gold-bright)}
 .stk-head{display:flex;justify-content:space-between;font-size:11px;font-weight:600;letter-spacing:.12em;text-transform:uppercase;color:var(--sand-60);margin-bottom:12px}
 .stk-mid{display:flex;flex-direction:column;align-items:center;gap:8px;font-size:11px;font-weight:600;letter-spacing:.12em;color:var(--gold-text)}
 .stk-mid svg{width:48px;height:48px}
-.stk-one{background:var(--sand-95);color:#F4F4F5;border-radius:var(--r-md);padding:32px;position:relative;overflow:hidden}
+.stk-one{background:var(--sand-95);color:#F6F0E7;border-radius:var(--r-md);padding:32px;position:relative;overflow:hidden}
 .stk-one::before{content:'';position:absolute;inset:auto -30% -60% -30%;height:120%;background:radial-gradient(closest-side,rgba(232,184,75,.18),rgba(232,184,75,0));pointer-events:none}
 .stk-one img{width:56px;height:56px}
 .stk-one h3{font-size:26px;margin:18px 0 8px}
-.stk-one p{color:#A1A1AA}
+.stk-one p{color:#C8BCA9}
 .stk-one ul{list-style:none;padding:0;margin:20px 0 0;display:grid;gap:10px}
-.stk-one li{padding-left:22px;position:relative;color:#E4E4E7}
+.stk-one li{padding-left:22px;position:relative;color:#F0E8DA}
 .stk-one li::before{content:'';position:absolute;left:2px;top:7px;width:9px;height:5px;border-left:1.5px solid var(--gold-bright);border-bottom:1.5px solid var(--gold-bright);transform:rotate(-45deg)}
 @media(max-width:1000px){.stk{grid-template-columns:1fr}.stk-mid{flex-direction:row}.stk-mid svg{transform:rotate(90deg)}}
 @media(max-width:560px){.stk-grid{grid-template-columns:1fr 1fr}.tool--crm{grid-column:span 2}}
@@ -333,12 +333,12 @@ h1 .gold,.hero h1 .gold{color:var(--gold-bright)}
 /* orbit */
 .orbit{position:relative;width:100%;max-width:1100px;margin:0 auto}
 .orbit svg{width:100%;height:auto;overflow:visible}
-.orbit .chip rect{fill:#121216;stroke:#2A2A30}
-.orbit .chip text{fill:#B4B4BC;font:500 13px var(--font)}
-.orbit .mod rect{fill:#16161A;stroke:#3A3A42}
+.orbit .chip rect{fill:#211710;stroke:#43352A}
+.orbit .chip text{fill:#D0C4AE;font:500 13px var(--font)}
+.orbit .mod rect{fill:#2A2014;stroke:#504635}
 .orbit .mod:hover rect,.orbit .mod:focus rect{stroke:var(--gold-bright)}
-.orbit .mod text.t{fill:#F4F4F5;font:600 16px var(--font)}
-.orbit .mod text.d{fill:#8B8B94;font:400 12px var(--font)}
+.orbit .mod text.t{fill:#F6F0E7;font:600 16px var(--font)}
+.orbit .mod text.d{fill:#A99D88;font:400 12px var(--font)}
 .orbit-list{display:none}
 @media(max-width:760px){.orbit{display:none}.orbit-list{display:grid;gap:10px}}
 .orbit-list .card h3{font-size:17px}
@@ -353,8 +353,8 @@ h1 .gold,.hero h1 .gold{color:var(--gold-bright)}
 @media(max-width:760px){.int-group{grid-template-columns:1fr;gap:14px}}
 
 /* funnel */
-.fnl{position:relative;max-width:420px;margin:0 auto;background:#0D0D10;border:1px solid #222228;border-radius:var(--r-md);padding:20px 16px 24px;color:#F4F4F5;overflow:hidden}
-.fnl-top{display:flex;justify-content:space-between;font-size:11px;font-weight:600;letter-spacing:.12em;text-transform:uppercase;color:#8B8B94}
+.fnl{position:relative;max-width:420px;margin:0 auto;background:#1C130A;border:1px solid #3A2E1E;border-radius:var(--r-md);padding:20px 16px 24px;color:#F6F0E7;overflow:hidden}
+.fnl-top{display:flex;justify-content:space-between;font-size:11px;font-weight:600;letter-spacing:.12em;text-transform:uppercase;color:#A99D88}
 .fnl-top b{color:var(--gold-bright);font-weight:600}
 .fnl-stage{position:relative}
 .fnl svg{width:100%;height:auto;display:block;margin-top:8px}
@@ -362,19 +362,19 @@ h1 .gold,.hero h1 .gold{color:var(--gold-bright)}
 .fnl-dot--out{background:#6B6B73;box-shadow:none}
 .fnl-out{text-align:center;margin-top:4px}
 .fnl-out .n{font-size:44px;font-weight:600;letter-spacing:-0.02em;color:var(--gold-bright);line-height:1}
-.fnl-out .l{font-size:11px;font-weight:600;letter-spacing:.12em;text-transform:uppercase;color:#A1A1AA;margin-top:8px}
-.fnl-out .s{font-size:12.5px;color:#71717A;margin-top:6px}
+.fnl-out .l{font-size:11px;font-weight:600;letter-spacing:.12em;text-transform:uppercase;color:#C8BCA9;margin-top:8px}
+.fnl-out .s{font-size:12.5px;color:#8A7F6B;margin-top:6px}
 
 /* leak bars */
 .leak{display:grid;gap:18px}
-.leak-row .top{display:flex;justify-content:space-between;font-size:12px;font-weight:600;letter-spacing:.1em;text-transform:uppercase;color:#A1A1AA;margin-bottom:8px}
-.leak-row .top b{color:#F4F4F5;font-size:15px;letter-spacing:0}
-.leak-row .track{height:38px;background:#141418;border:1px solid #232329;border-radius:var(--r-sm);overflow:hidden}
-.leak-row .fill{height:100%;display:flex;align-items:center;padding:0 12px;font-size:11px;font-weight:600;letter-spacing:.1em;text-transform:uppercase;color:#09090B;width:0;transition:width 1.2s var(--ease)}
+.leak-row .top{display:flex;justify-content:space-between;font-size:12px;font-weight:600;letter-spacing:.1em;text-transform:uppercase;color:#C8BCA9;margin-bottom:8px}
+.leak-row .top b{color:#F6F0E7;font-size:15px;letter-spacing:0}
+.leak-row .track{height:38px;background:#261E10;border:1px solid #3A2E1E;border-radius:var(--r-sm);overflow:hidden}
+.leak-row .fill{height:100%;display:flex;align-items:center;padding:0 12px;font-size:11px;font-weight:600;letter-spacing:.1em;text-transform:uppercase;color:#171005;width:0;transition:width 1.2s var(--ease)}
 .leak.in .fill{width:var(--w)}
-.leak-gap{display:flex;gap:16px;align-items:baseline;border-top:1px solid #232329;padding-top:18px}
+.leak-gap{display:flex;gap:16px;align-items:baseline;border-top:1px solid #3A2E1E;padding-top:18px}
 .leak-gap .n{font-size:36px;font-weight:600;color:#E0906F;letter-spacing:-0.02em}
-.leak-gap p{color:#A1A1AA;font-size:14px}
+.leak-gap p{color:#C8BCA9;font-size:14px}
 @media(prefers-reduced-motion:reduce){.leak .fill{width:var(--w);transition:none}}
 
 /* roles */
@@ -390,12 +390,12 @@ h1 .gold,.hero h1 .gold{color:var(--gold-bright)}
 
 /* quotes */
 .quotes{display:grid;grid-template-columns:repeat(3,1fr);gap:24px}
-.qcard{border:1px solid #26262B;border-radius:var(--r-md);padding:28px;background:#0F0F12}
+.qcard{border:1px solid #3A2E1E;border-radius:var(--r-md);padding:28px;background:#1E150C}
 .qcard .who{font-size:11px;font-weight:600;letter-spacing:.14em;text-transform:uppercase;color:var(--gold-bright)}
-.qcard blockquote{margin:14px 0 0;font-size:19px;line-height:1.4;font-weight:500;color:#F4F4F5}
-.qcard .read{margin-top:16px;color:#A1A1AA;font-size:14px}
-.qcard .src{margin-top:16px;font-size:12px;color:#71717A}
-.qcard .src a{color:#A1A1AA}
+.qcard blockquote{margin:14px 0 0;font-size:19px;line-height:1.4;font-weight:500;color:#F6F0E7}
+.qcard .read{margin-top:16px;color:#C8BCA9;font-size:14px}
+.qcard .src{margin-top:16px;font-size:12px;color:#8A7F6B}
+.qcard .src a{color:#C8BCA9}
 @media(max-width:900px){.quotes{grid-template-columns:1fr}}
 
 /* about */
@@ -422,3 +422,15 @@ h1 .gold,.hero h1 .gold{color:var(--gold-bright)}
 @media(prefers-reduced-motion:reduce){.strip-track span[aria-hidden]{display:none}}
 .about-hero .copy{align-self:center;padding:40px 0 56px}
 .about-hero img{align-self:end;max-width:420px}
+
+/* v3: warm darks, white lights */
+.dark .lede,.dark .muted{color:#C8BCA9}
+.dark .crumb a{color:#A99D88}
+.foot{color:#C8BCA9}.foot-cols a{color:#E0D6C5}.foot-cols a:hover{color:#FDFAF4}.foot-g{color:#A99D88;border-color:#382F1F}.foot-g a{color:#E0D6C5}.foot-b{color:#8A7F6B}.foot-b a{color:#A99D88}
+.hero .lede{color:#E0D6C5}.hero-note{color:#A99D88}
+.stat .l{color:#C8BCA9}.stats,.stat+.stat{border-color:#382F1F!important}
+.tool--crm{border-color:#E9C8BD;background:#FFF7F4}
+/* funnel geometry: the dot layer is exactly the drawing's box */
+.fnl-stage{position:relative;margin-top:10px;aspect-ratio:340/330;overflow:hidden}
+.fnl-stage svg{position:absolute;inset:0;width:100%;height:100%;margin:0}
+.fnl-top{gap:12px;flex-wrap:wrap}

diff --git a/samora-github-ready/js/site.js b/samora-github-ready/js/site.js
@@ -76,7 +76,7 @@
         var dx0 = x - hp[0], dy0 = y - hp[1]; b += hi * Math.exp(-(dx0 * dx0 + dy0 * dy0) / sig);
         for (var j = 0; j < lights.length; j++) { var L = lights[j]; if (L.i <= 0) continue; var dx = x - L.p[0], dy = y - L.p[1]; b += L.i * Math.exp(-(dx * dx + dy * dy) / sig); }
         b = Math.min(1, b);
-        ctx.fillStyle = 'rgba(' + Math.round(78 + 164 * b) + ',' + Math.round(78 + 118 * b) + ',' + Math.round(88 + 12 * b) + ',' + (0.5 + 0.48 * b) + ')';
+        ctx.fillStyle = 'rgba(' + Math.round(130 + 112 * b) + ',' + Math.round(84 + 112 * b) + ',' + Math.round(48 + 52 * b) + ',' + (0.36 + 0.6 * b) + ')';
         ctx.beginPath(); ctx.arc(x, y, dotR * (1 + 0.45 * b), 0, 7); ctx.fill();
       }
       // arcs
@@ -211,10 +211,10 @@
     function spawn() {
       var keep = Math.random() < 0.18, exit = keep ? 5 : 1 + Math.floor(Math.random() * 4);
       var d = document.createElement('div'); d.className = 'fnl-dot' + (keep ? '' : ' fnl-dot--out'); stage.appendChild(d);
-      var x0 = CX + (Math.random() * 2 - 1) * (HW_TOP - 16), yEnd = keep ? NECK + 24 : TOP + exit * BAND, dur = 2400 + Math.random() * 1400, t0 = performance.now();
+      var x0 = CX + (Math.random() * 2 - 1) * (HW_TOP - 16), yEnd = keep ? NECK + 20 : TOP + exit * BAND, dur = 2400 + Math.random() * 1400, t0 = performance.now();
       (function step(now) {
         if (!d.isConnected) return;
-        var t = Math.min((now - t0) / dur, 1), y = -10 + (yEnd + 10) * t;
+        var t = Math.min((now - t0) / dur, 1), y = TOP + (yEnd - TOP) * t;
         var x = CX + (x0 - CX) * (hw(Math.max(TOP, Math.min(y, NECK))) / HW_TOP);
         d.style.left = (x / VW * 100) + '%'; d.style.top = (y / VH * 100) + '%';
         d.style.opacity = String(t > .9 ? (1 - t) * 10 * (keep ? 1 : .6) : (keep ? 1 : .5));

diff --git a/samora-github-ready/deals.html b/samora-github-ready/deals.html
@@ -63,7 +63,7 @@
   <div class="wrap split">
     <div class="rv"><div class="eyebrow">Where the money goes</div><h2>Stated, supported, verified.</h2><p class="lede">Every figure in the pipeline is checked against real activity. The gap between what is claimed and what is proven shows up before the quarter closes, not after.</p></div>
     <div class="leak rv">
-  <div class="leak-row"><div class="top"><span>Stated in the CRM</span><b>$1.20M</b></div><div class="track"><div class="fill" style="--w:100%;background:#3A3A42;color:#E4E4E7">What the deck says</div></div></div>
+  <div class="leak-row"><div class="top"><span>Stated in the CRM</span><b>$1.20M</b></div><div class="track"><div class="fill" style="--w:100%;background:#504635;color:#F0E8DA">What the deck says</div></div></div>
   <div class="leak-row"><div class="top"><span>Partly supported</span><b>$670K</b></div><div class="track"><div class="fill" style="--w:56%;background:#DEB771">Some signal, below the bar</div></div></div>
   <div class="leak-row"><div class="top"><span>Verified by activity</span><b>$530K</b></div><div class="track"><div class="fill" style="--w:44%;background:#A8B07A">Safe to commit</div></div></div>
   <div class="leak-gap"><div class="n">$670K</div><p>carried in the forecast with no evidence behind it. An illustrative pipeline, and the gap that becomes a missed quarter.</p></div>
